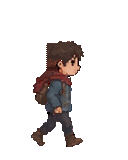
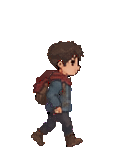
fix: mejorar silueta del protagonista y respiración en Idle

Changed region(s): [[0.3438, 0.25, 0.4375, 0.4375]]

diff --git a/Assets/Scripts/Player/PlayerProtagonistAnimator.cs b/Assets/Scripts/Player/PlayerProtagonistAnimator.cs
@@ -37,17 +37,11 @@ namespace DiasPrestados
         [SerializeField] float strideLength = 1.6f;
         [SerializeField] float holdWalkTime = 0.12f;
 
-        [Header("Idle — respiración sutil")]
-        [SerializeField] float idleBreathHz = 0.85f;
-        [SerializeField] float idleBreathAmpY = 0.018f;
-        [SerializeField] float idleBreathAmpScale = 0.014f;
-
         const string WalkState = "Walk";
         const string IdleState = "Idle";
         float phase;
         float holdTimer;
         bool wasWalking;
-        float idleBreathTime;
 
         int speedHash;
         int groundedHash;
@@ -145,7 +139,6 @@ namespace DiasPrestados
                 animator.speed = 0f;
                 animator.Play(WalkState, 0, Mathf.Repeat(phase, 1f));
                 wasWalking = true;
-                idleBreathTime = 0f;
                 if (restPoseCached)
                 {
                     visualRoot.localPosition = restLocalPosition;
@@ -162,20 +155,20 @@ namespace DiasPrestados
                     wasWalking = false;
                 }
 
-                // Respiración / micro-movimientos en Idle (misma idea de vida que el idle del hermano).
+                // El clip Idle alterna dos poses del torso, como el hermano (3 + 2 muestras a 3 fps).
+                // La respiración está en los píxeles superiores: no mover ni escalar piernas/pies.
+                // En el aire se mantiene la pose neutra solo si el estado actual es Idle.
+                if (!grounded && animator.GetCurrentAnimatorStateInfo(0).IsName(IdleState))
+                {
+                    animator.Play(IdleState, 0, 0f);
+                    animator.speed = 0f;
+                }
+
                 if (restPoseCached)
                 {
-                    idleBreathTime += Time.deltaTime;
-                    float breath = Mathf.Sin(idleBreathTime * Mathf.PI * 2f * idleBreathHz);
-                    float secondary = Mathf.Sin(idleBreathTime * Mathf.PI * 2f * idleBreathHz * 0.5f + 0.6f);
                     visualRoot.localRotation = Quaternion.identity;
-                    visualRoot.localPosition = restLocalPosition + new Vector3(
-                        secondary * idleBreathAmpY * 0.25f,
-                        breath * idleBreathAmpY,
-                        0f);
-                    float sy = visualScale * (1f + breath * idleBreathAmpScale);
-                    float sx = visualScale * (1f - breath * idleBreathAmpScale * 0.45f);
-                    visualRoot.localScale = new Vector3(sx, sy, 1f);
+                    visualRoot.localPosition = restLocalPosition;
+                    visualRoot.localScale = new Vector3(visualScale, visualScale, 1f);
                 }
             }
         }
